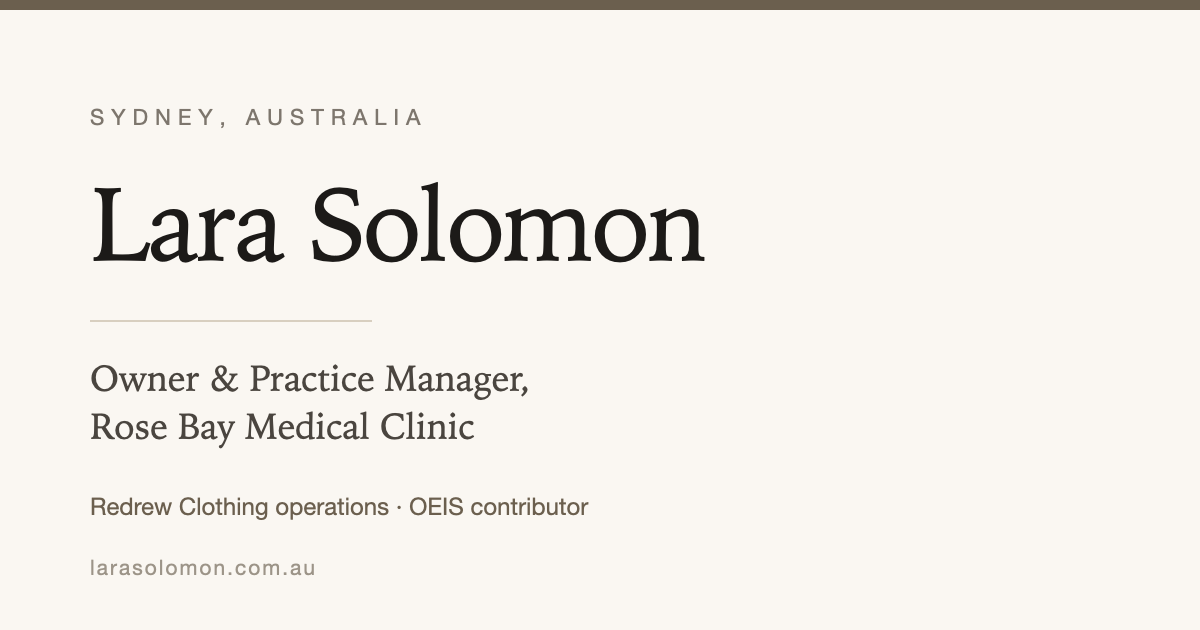
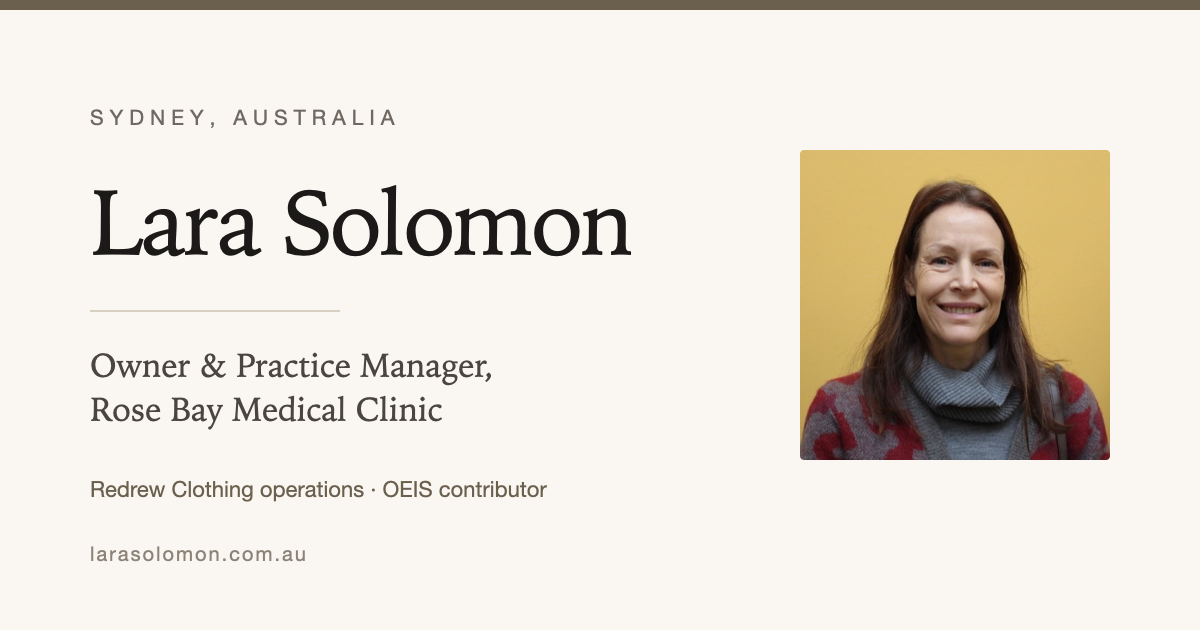
Add portrait
Adds profile.jpg (432x432, 40KB) to the masthead and as Person.image in
the JSON-LD, which was the strongest missing entity signal for search.

- source PNG was 256KB; converted to JPEG q82 at 40KB with no visible
  loss at the 168px display size
- checked the source for EXIF before publishing: only pixel dimensions
  and colour space, no GPS, camera or timestamps
- img carries intrinsic width/height so it reserves space and cannot
  cause layout shift; not lazy-loaded since it is above the fold
- share card rebuilt to include the portrait alongside the type
- index.md references the image too, keeping the mirrors in sync

diff --git a/index.html b/index.html
@@ -75,6 +75,15 @@
       "givenName": "Lara",
       "familyName": "Solomon",
       "url": "https://larasolomon.com.au/",
+      "image": {
+        "@type": "ImageObject",
+        "@id": "https://larasolomon.com.au/#portrait",
+        "url": "https://larasolomon.com.au/profile.jpg",
+        "contentUrl": "https://larasolomon.com.au/profile.jpg",
+        "width": 432,
+        "height": 432,
+        "caption": "Lara Solomon"
+      },
       "mainEntityOfPage": { "@id": "https://larasolomon.com.au/#page" },
       "jobTitle": ["Owner and Practice Manager", "Operations and Customer Management"],
       "hasOccupation": [
@@ -257,6 +266,19 @@
     padding: clamp(3rem, 9vw, 6.5rem) 0 clamp(2rem, 5vw, 3.5rem);
     border-bottom: 1px solid var(--rule);
   }
+  .portrait {
+    display: block;
+    width: 168px;
+    height: 168px;
+    object-fit: cover;
+    border-radius: 3px;
+    margin: 0 0 2.1rem;
+    background: var(--paper-warm);
+  }
+  @media (max-width: 32rem) {
+    .portrait { width: 132px; height: 132px; margin-bottom: 1.6rem; }
+  }
+
   .eyebrow {
     font-family: var(--sans);
     font-size: .72rem;
@@ -491,6 +513,8 @@
 
 <header class="masthead">
   <div class="wrap">
+    <img class="portrait" src="/profile.jpg" width="432" height="432"
+         alt="Lara Solomon" decoding="async" fetchpriority="high">
     <p class="eyebrow">Sydney, Australia</p>
     <h1>Lara&nbsp;Solomon</h1>
     <p class="standfirst">

diff --git a/index.md b/index.md
@@ -1,5 +1,7 @@
 # Lara Solomon
 
+![Lara Solomon](https://larasolomon.com.au/profile.jpg)
+
 **Sydney, Australia**
 
 Owner and practice manager of Rose Bay Medical Clinic. Operations and customer management at Redrew
